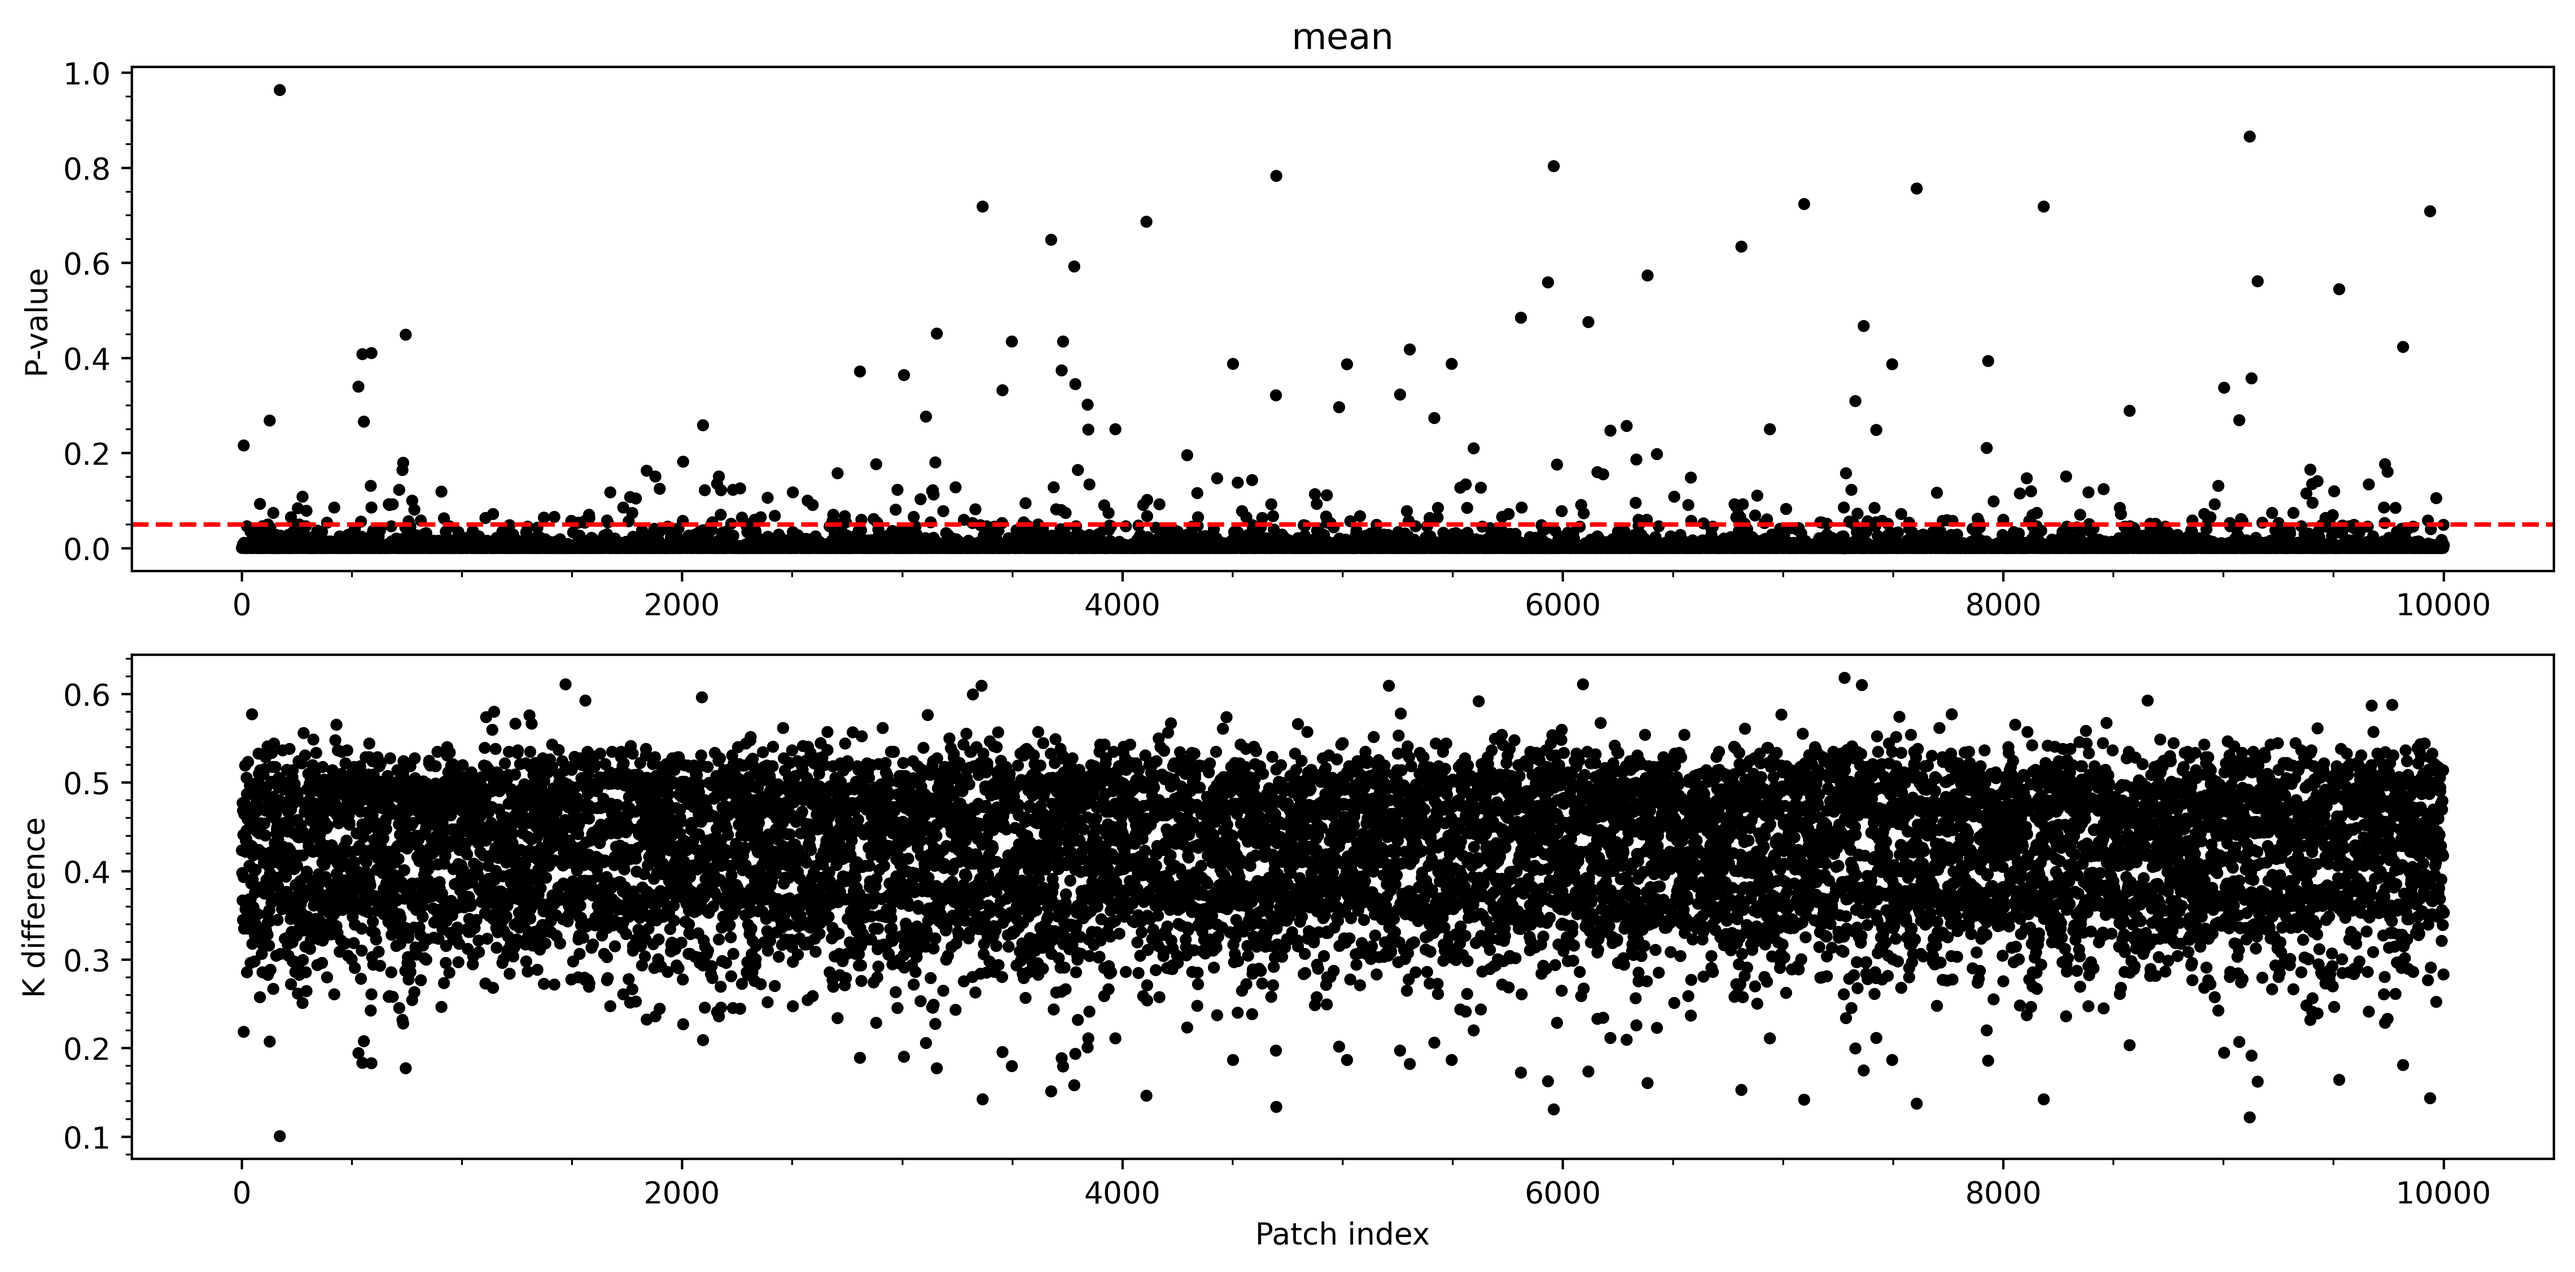
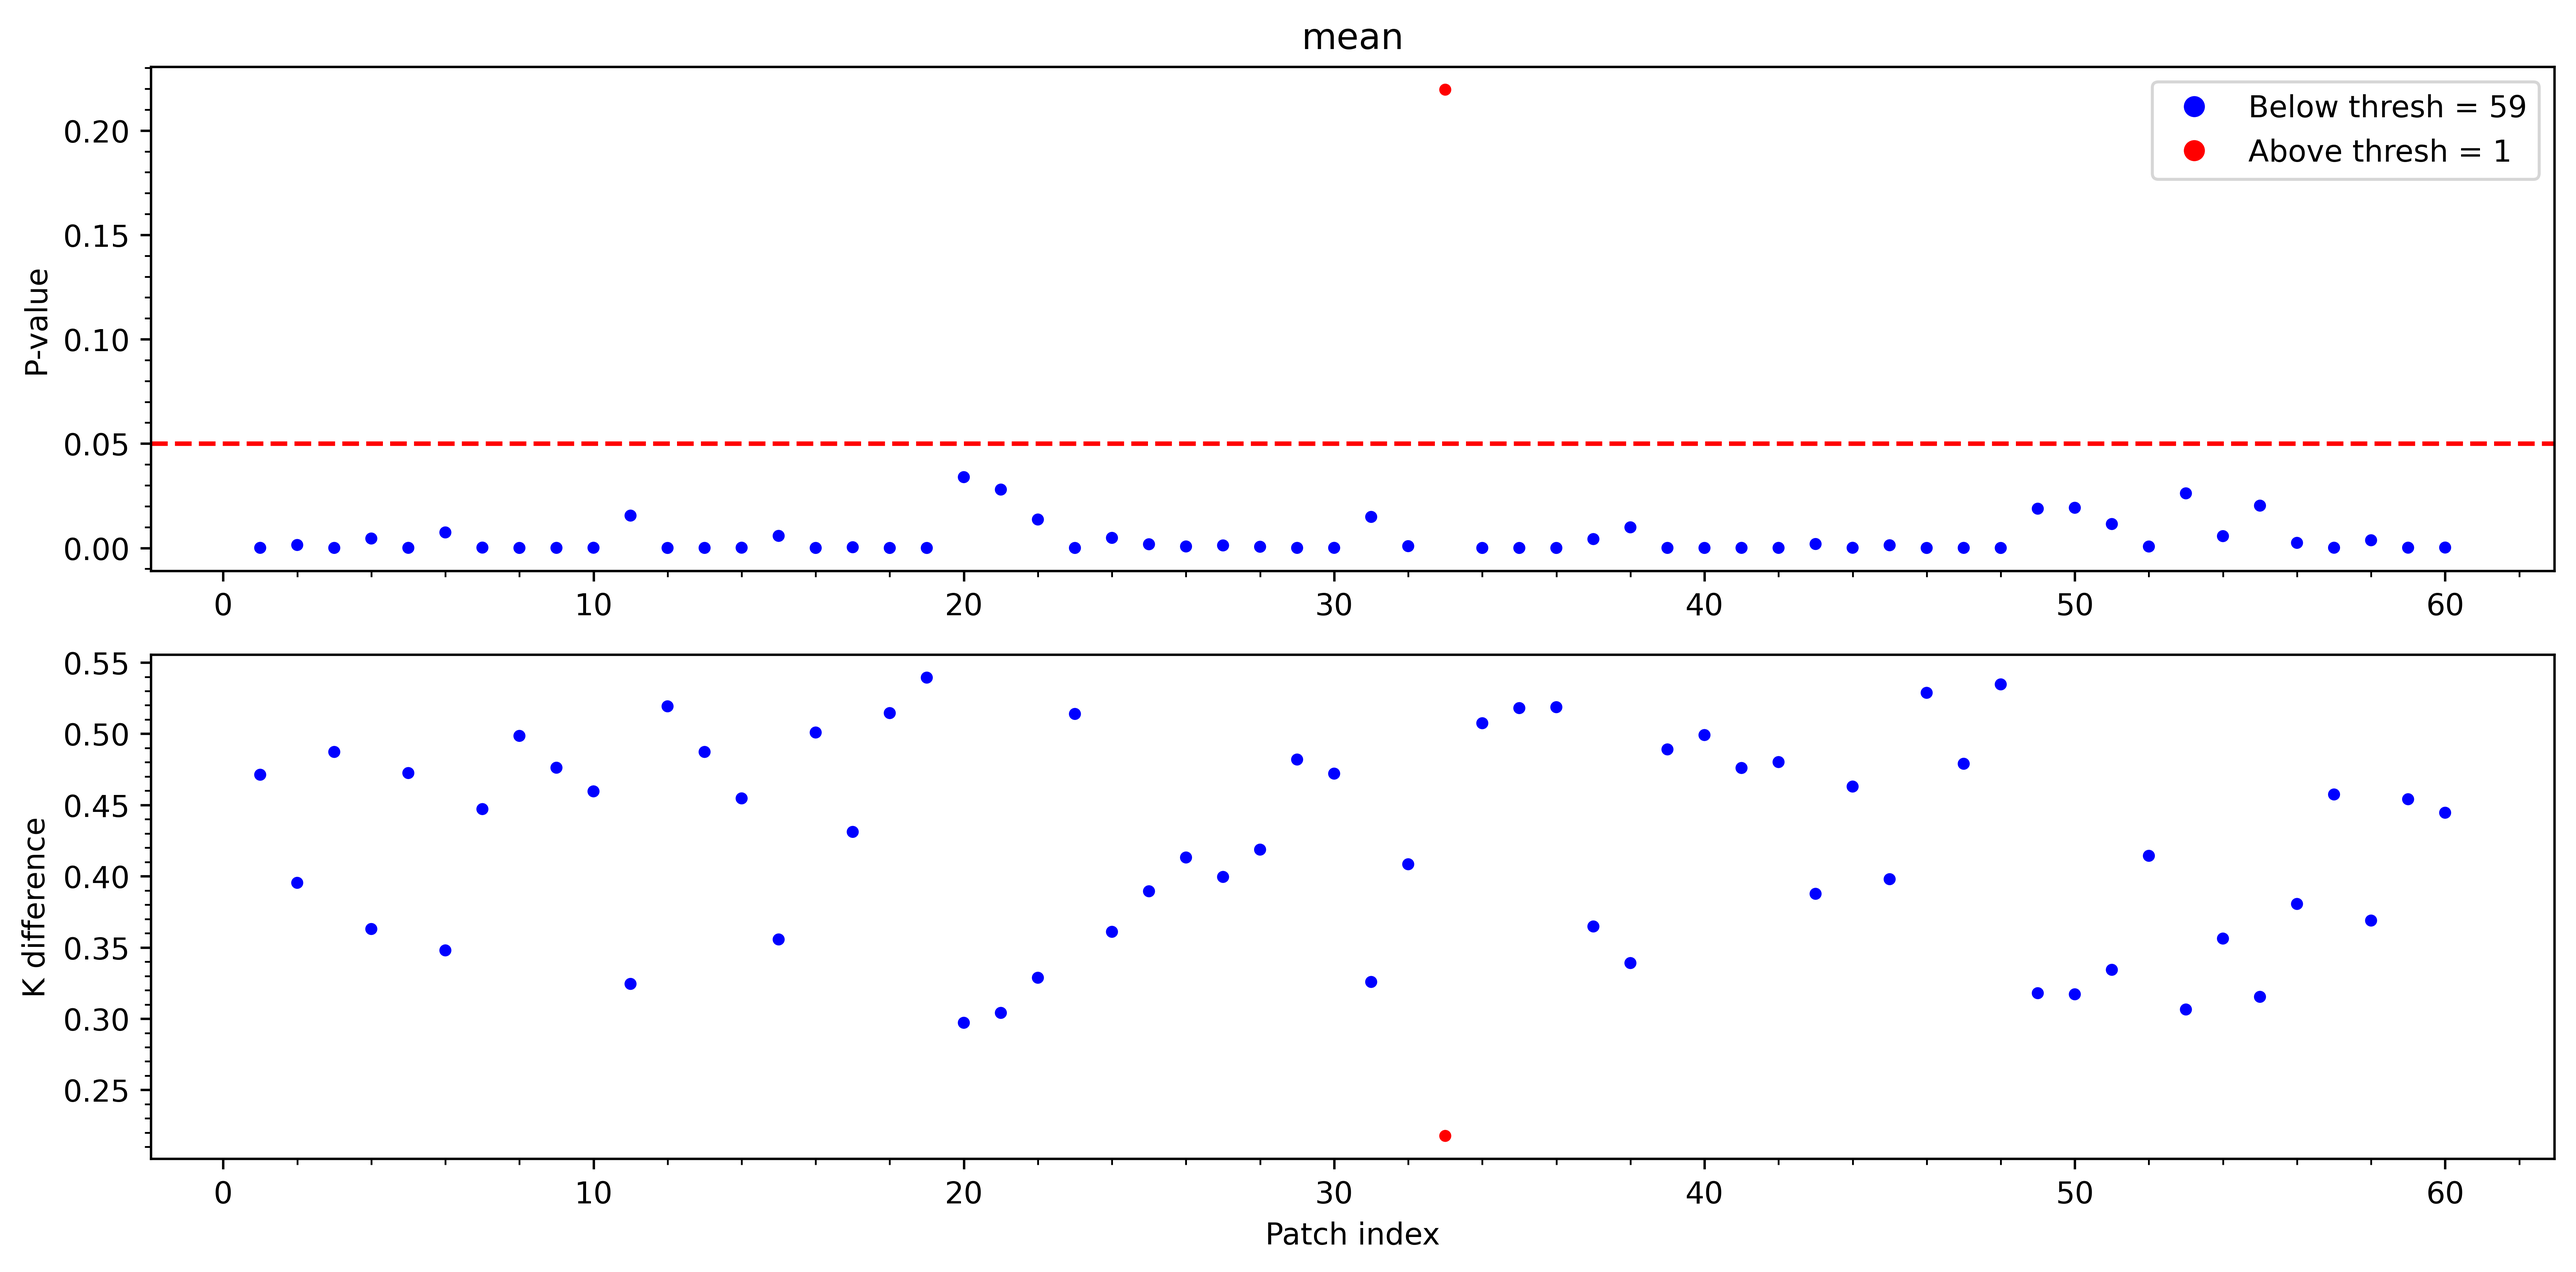
adding more information in p_value plotting

diff --git a/M31_signal_vs_entire_sky.py b/M31_signal_vs_entire_sky.py
@@ -1144,19 +1144,26 @@ def ks_test_random_vs_region(random_samples, region_sample, one_dim = True, save
 
         print("=" * 50)
     else:
-        fig, axes = plt.subplots(2, 1, figsize=(12,6))  # Corrected plt.subplots()
+        num_above_thresh = np.sum(p_value > 0.05)
+        num_below_thresh = len(p_value) - num_above_thresh  # Total minus above threshold
+
+        colors = np.where(p_value < 0.05, "blue", "red")  # Blue for below, Red for above
+
+        fig, axes = plt.subplots(2, 1, figsize=(12, 6))
 
         # Plotting the p-value
-        axes[0].plot([patch_idx+1 for patch_idx in range(len(random_samples))], p_value, 
-                     marker=".", color="k", linestyle="", alpha=0.3)
+        scatter_p = axes[0].scatter(np.arange(1, len(random_samples) + 1), p_value, c=colors, marker=".")
         axes[0].axhline(y=0.05, linestyle="--", color="red")
         axes[0].set_ylabel("P-value")
         axes[0].set_title(f"{name}")
         axes[0].minorticks_on()
-        
+        axes[0].legend(handles=[
+            plt.Line2D([0], [0], marker="o", color="w", markerfacecolor="blue", markersize=8, label=f"Below thresh = {num_below_thresh}"),
+            plt.Line2D([0], [0], marker="o", color="w", markerfacecolor="red", markersize=8, label=f"Above thresh = {num_above_thresh}")
+        ])
+
         # Plotting the K difference
-        axes[1].plot([patch_idx+1 for patch_idx in range(len(random_samples))], ks_stat, 
-                     marker=".", color="k", linestyle="", alpha=0.3)
+        scatter_ks = axes[1].scatter(np.arange(1, len(random_samples) + 1), ks_stat, c=colors, marker=".")
         axes[1].set_xlabel("Patch index")
         axes[1].set_ylabel("K difference")
         axes[1].minorticks_on()
@@ -1178,7 +1185,7 @@ if the number of patches are too many and/or the size of the patches are too big
 patch_size = 30 #in degrees (same as M31 Virial Radius)
 
 """IMPORTANT"""
-number_of_patches = int(1e4) #Creating laaaarge nubmer of patches (choose smaller vlue if you only want to see output features)
+number_of_patches = int(6e1) #Creating laaaarge nubmer of patches (choose smaller vlue if you only want to see output features)
 
 
 BINS = bin_num_main #Currrently 80
